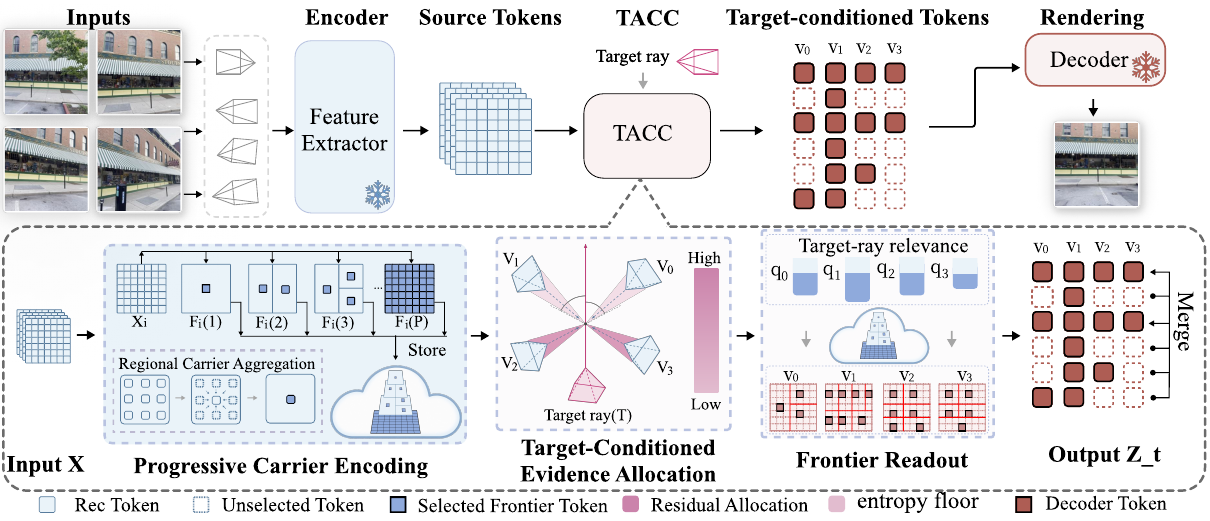
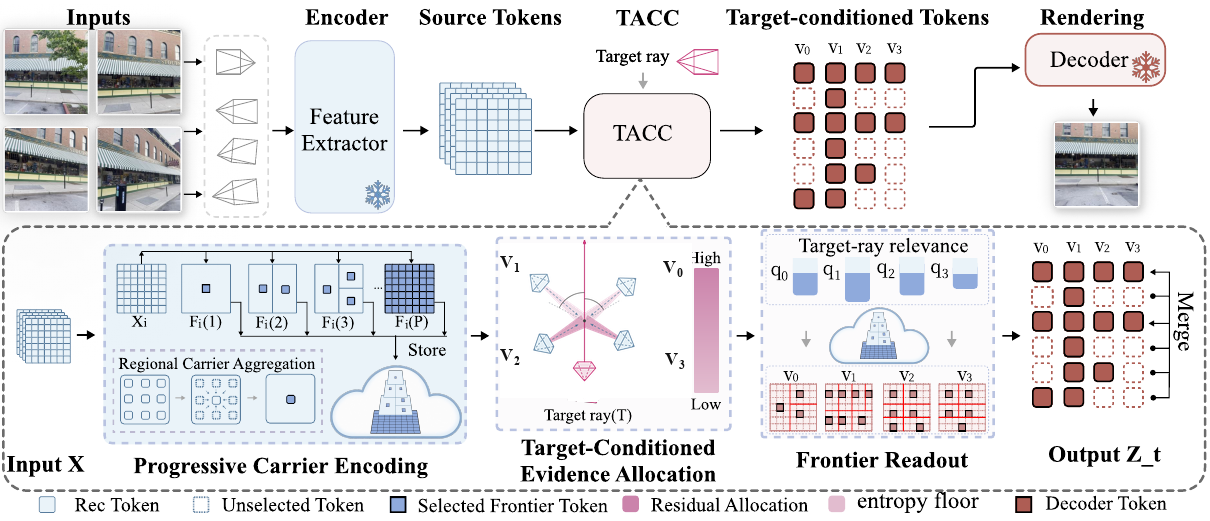
Correct target relevance camera directions

Changed region(s): [[0.3975, 0.4914, 0.581, 0.7678]]

diff --git a/index.html b/index.html
@@ -39,7 +39,7 @@
       <section id="method" class="paper-section">
         <h2>Method</h2>
         <figure class="project-figure">
-          <img src="./assets/tacc-method-overview.png" alt="Overview of TACC for feed-forward latent novel view synthesis" />
+          <img src="./assets/tacc-method-overview.png?v=20260926-camera-direction" alt="Overview of TACC for feed-forward latent novel view synthesis" />
           <figcaption><strong>Overview of TACC for feed-forward latent NVS.</strong> Source representations are organized into reusable progressive Carrier hierarchies, from which target-aware allocation reads per-view frontiers under a fixed decoder-visible budget to form <em>Z<sub>t</sub></em>.</figcaption>
         </figure>
         <p>TACC follows an <em>encode once, allocate on demand</em> principle. Before a target view is specified, TACC organizes each source-view representation into a progressive Carrier hierarchy that supports multiple readout granularities and can be reused across targets. At target time, TACC estimates source-target geometric relevance, preserves the highest-relevance source view at full granularity, and allocates the remaining token budget across the support views. It then reads the corresponding per-view frontiers and concatenates them into a compact target-conditioned representation that is passed to the unchanged rendering pathway.</p>
